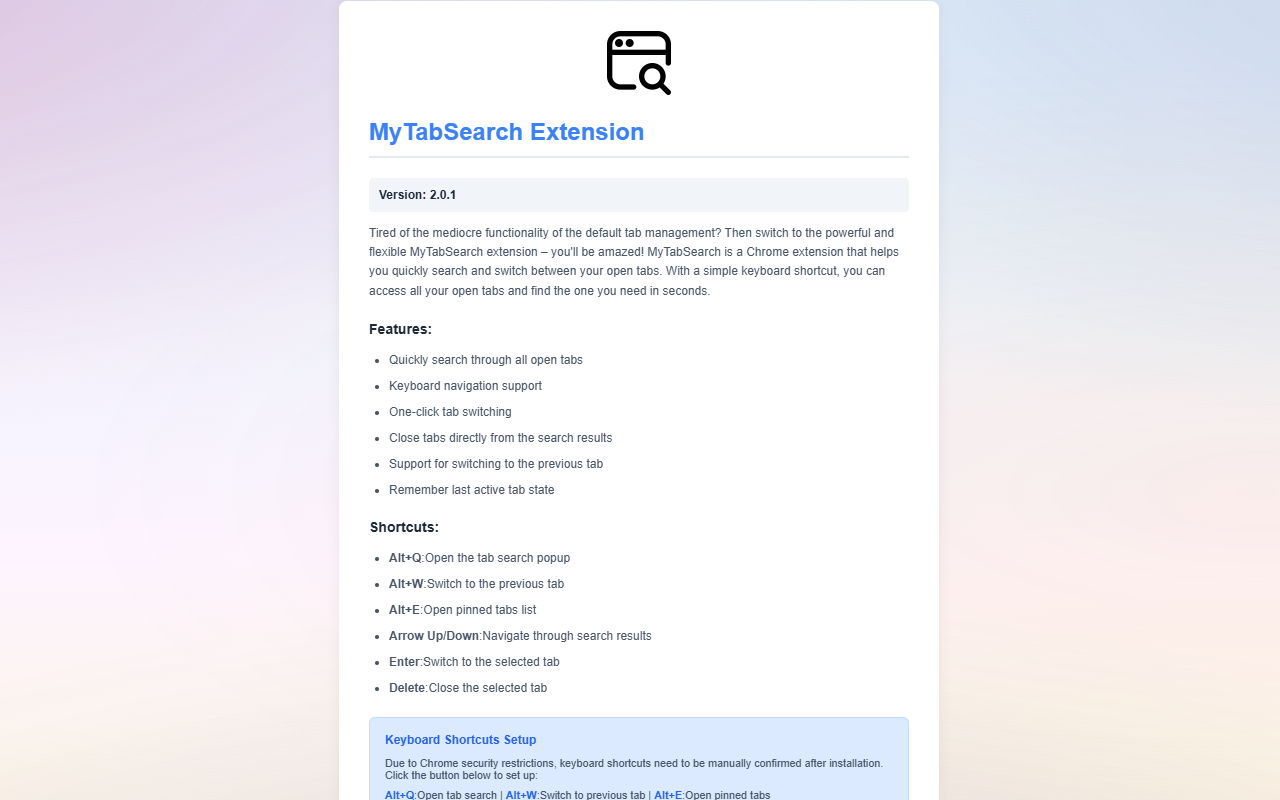
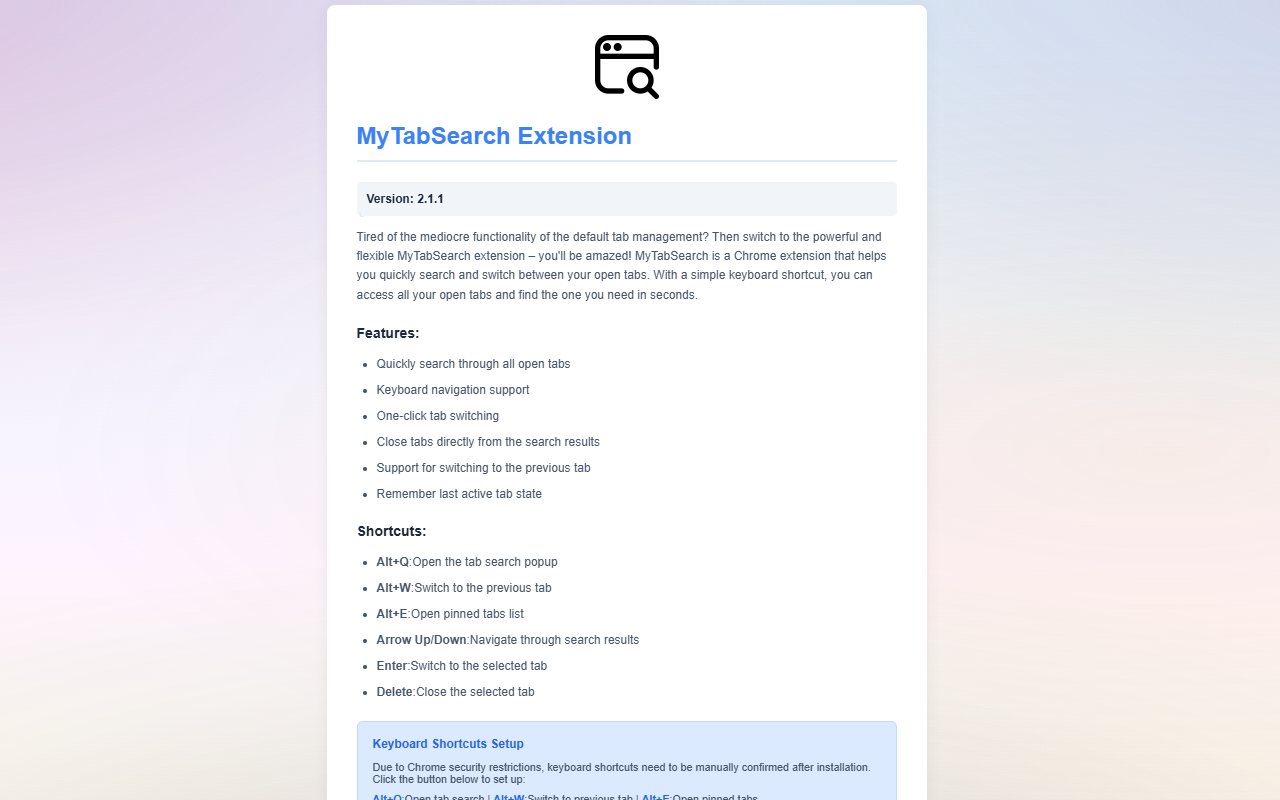
fix(oauth-config): 补全Edge Add-ons的OAuth配置并添加生产包ID
更新了Edge Add-ons市场的OAuth客户端凭据，移除了待上架注释并添加正式的谷歌、微软客户端ID，同时新增Edge扩展生产包ID映射

Changed region(s): [[0.25, 0.0, 0.75, 0.375], [0.25, 0.6562, 0.75, 1.0], [0.2812, 0.4062, 0.4688, 0.625]]

diff --git a/js/oauth-config.js b/js/oauth-config.js
@@ -50,10 +50,10 @@ const MARKET_CREDENTIALS = {
     description: 'Chrome Web Store（所有环境）'
   },
 
-  // Edge Add-ons（近期上架）
+  // Edge Add-ons
   'edge-addons': {
-    google: null, // 通过 EDGE_GOOGLE_CLIENT_ID 环境变量注入
-    microsoft: null, // 通过 EDGE_MICROSOFT_CLIENT_ID 环境变量注入
+    google: '45721927150-pphehddi5o6ttqrnv7mlrfk1i24m9e6d.apps.googleusercontent.com',
+    microsoft: 'e4c0fb3b-dbf9-4785-892a-6c9fecdb5c75',
     description: 'Edge Add-ons（所有环境）'
   },
 
@@ -70,9 +70,8 @@ const EXTENSION_TO_MARKET = {
   // Chrome Web Store（多个包 ID 映射到同一个市场）
   'bgmhkhckclnkdjehcnemcggbmnmiichf': 'chrome-web-store', // 开发/测试包
   'adfbidbchmbodidfjmimbkfndnenljjp': 'chrome-web-store', // 生产包
-
-  // Edge Add-ons（包 ID 待分配后取消注释）
-  // 'edge-production-extension-id': 'edge-addons',
+  // Edge Add-ons
+  'goemcphhpfajifddhebagehkkaeblcpf': 'edge-addons', // 生产包
 
   // Firefox Add-ons（包 ID 待分配后取消注释）
   // 'firefox-production-extension-id': 'firefox-addons'